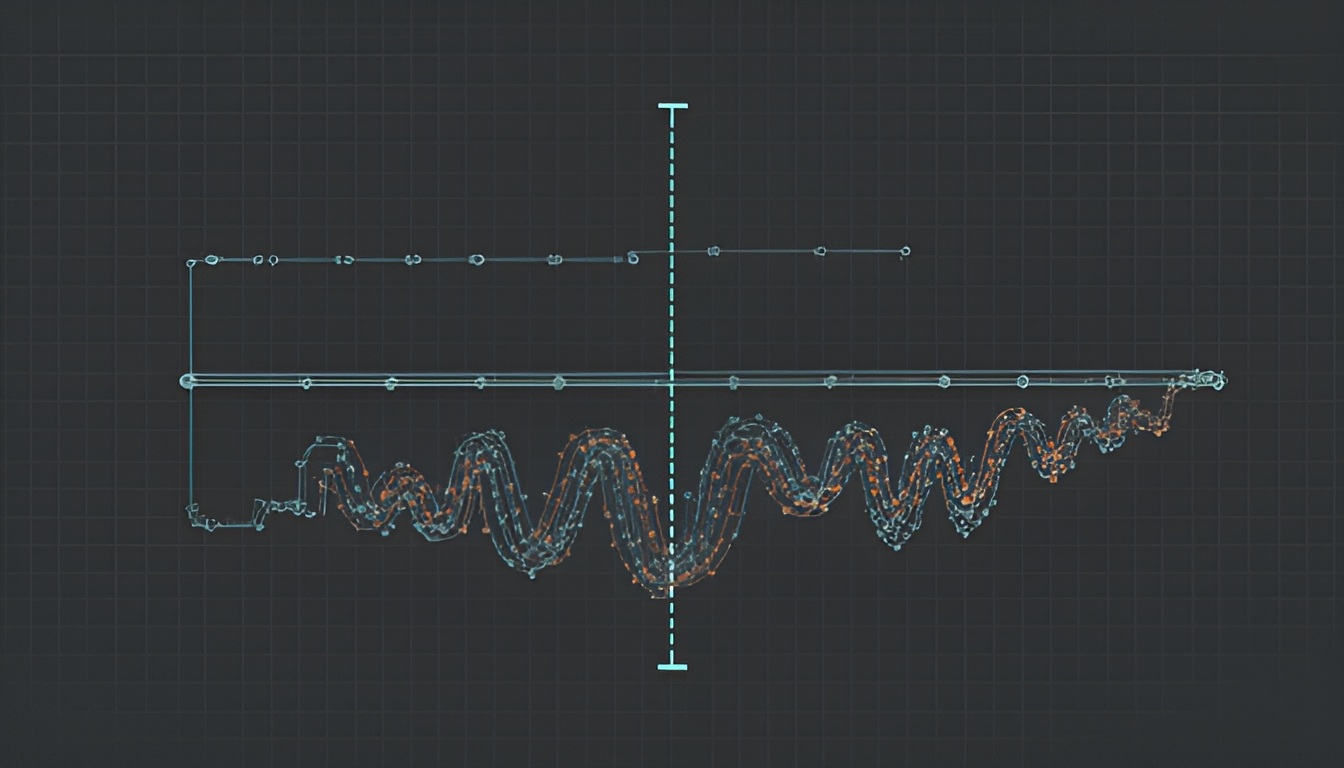
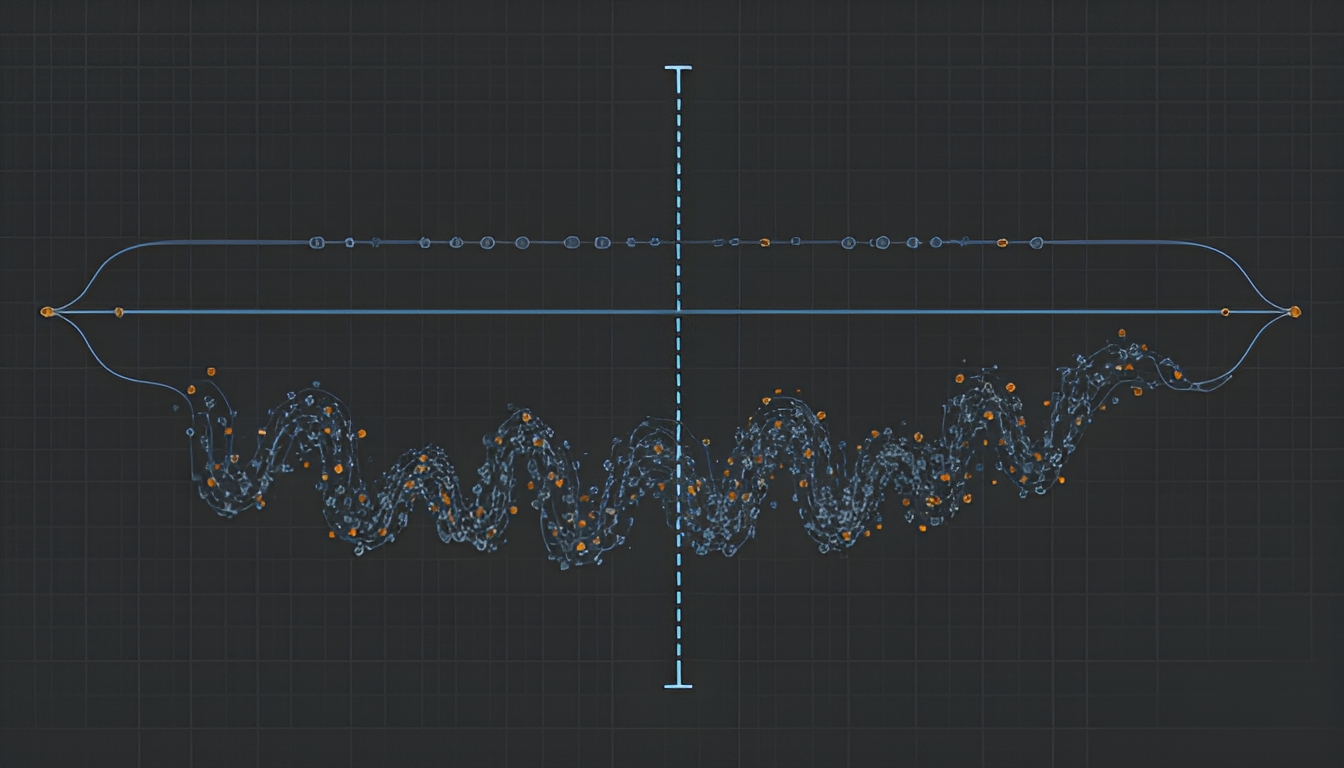
content: OSWorld-Human catches agents taking up to 4.3 times the necessary steps; phoneshell's score() has never recorded what the necessary number is

diff --git a/site/blog/index.html b/site/blog/index.html
@@ -46,7 +46,7 @@
     <span>
       <h3>OSWorld-Human catches agents taking up to 4.3 times the necessary steps; phoneshell's score() has never recorded what the necessary number is</h3>
       <p>OSWorld-Human (arXiv:2506.16042, MLSys 2026 oral) builds a human trajectory for all 369 OSWorld tasks and finds even the best of 16 evaluated agents takes 2.7 to 4.3 times more steps than necessary. phoneshell's score() function reports a raw avg_turns per model with no human-baseline step count anywhere in its schema to divide it by.</p>
-      <span class="meta"><span class="kind analysis">analysis</span><span>8 min read</span></span>
+      <span class="meta"><span class="kind event">event</span><span>8 min read</span></span>
     </span>
   </a></li>
   <li><a class="row" href="/blog/os-marathon-11-53-percent-vs-human-82-62-phoneshell-stops-at-25-steps/">
